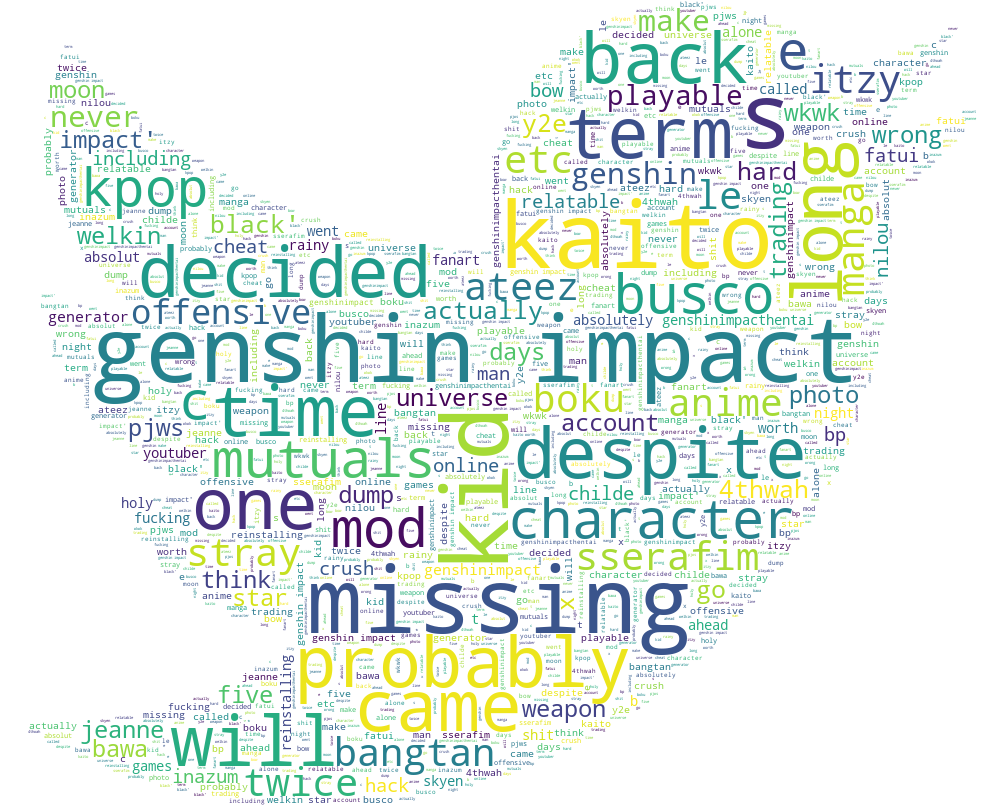
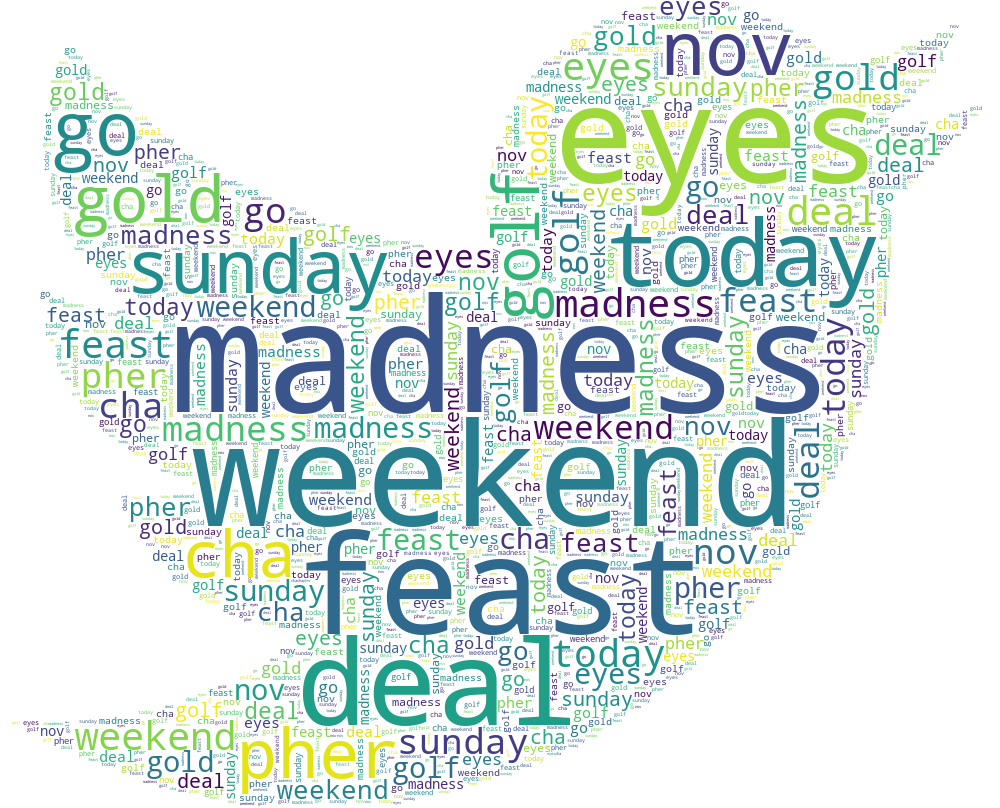
update ui

diff --git a/templates/index.html b/templates/index.html
@@ -5,94 +5,105 @@
     <title>Wordcloud Twitter</title>
     <meta charset="utf-8">
     <meta name="viewport" content="width=device-width, initial-scale=1">
-    <link rel="stylesheet" href="style.css">
-    <link rel="stylesheet" href="https://maxcdn.bootstrapcdn.com/bootstrap/3.4.1/css/bootstrap.min.css">
-    <link rel="stylesheet" href="https://cdn.jsdelivr.net/npm/bootstrap@4.6.1/dist/css/bootstrap.min.css">
     <script type="text/javascript" src="/eel.js"></script>
     <script type="text/javascript" src="main.js"></script>
-    <!-- <script type="text/javascript">
-        var myVar="hello";
-        function exampleFunction() { alert('You triggered an alert!');}
-        function compute() {
-            //var data = document.getElementById("data").value
-            //eel.demo(data)(setValue) // call the demo function which we have created in the main.py file
-            console.log("js hey");
-            alert('You triggered an alert!');
-            var keyword="apec";
-            var noOfTweet=10;
-            var select=1;    
-            eel.input(keyword, noOfTweet, select);
-            alert('You triggered an alert!2');
-        }
-        eel.expose(say_hello_js);               // Expose this function to Python
-        function say_hello_js(x) {
-            console.log("Hello from " + x);
-        }
-        
-        say_hello_js("Javascript World!");
-        eel.say_hello_py("Javascript World!");  // Call a Python function
-    </script> -->
-    <script src="https://ajax.googleapis.com/ajax/libs/jquery/3.6.0/jquery.min.js"></script>
-    <script src="https://maxcdn.bootstrapcdn.com/bootstrap/3.4.1/js/bootstrap.min.js"></script>
-    <script src="https://cdn.jsdelivr.net/npm/jquery@3.6.0/dist/jquery.slim.min.js"></script>
-    <script src="https://cdn.jsdelivr.net/npm/popper.js@1.16.1/dist/umd/popper.min.js"></script>
-    <script src="https://cdn.jsdelivr.net/npm/bootstrap@4.6.1/dist/js/bootstrap.bundle.min.js"></script>
+    <script src="https://cdn.tailwindcss.com"></script>
 </head>
 
-<body style="background: rgb(235, 234, 234);">
-    
-    <nav class="navbar navbar-inverse">
-        <div class="container-fluid">
-            <div class="navbar-header">
-                <a class="navbar-brand" href="#">Wordcloud Twitter</a>
-            </div>
+<body>
+    <nav class="bg-gray-50 border-gray-200 px-2 sm:px-4 py-2.5 dark:bg-gray-900">
+        <div class="container flex flex-wrap items-center justify-between mx-auto">
+            <a class="flex items-center">
+                <img src="https://upload.wikimedia.org/wikipedia/commons/thumb/4/4f/Twitter-logo.svg/800px-Twitter-logo.svg.png" class="h-6 mr-3 sm:h-9" alt="Twitter Logo" />
+                <span class="self-center text-xl font-semibold whitespace-nowrap dark:text-white">Wordcloud Twitter</span>
+            </a>
         </div>
     </nav>
-    <div class="container">
-        <h3 id="a1">Inverted Navbar</h3>
-        <p>An inverted navbar is black instead of gray.</p>
-        <button class="btn btn btn-primary" type="button" onclick="compute()">lll</button>
-        <input type = "button" onclick = "compute()" value = "Click Me">
-            <div class="input-group">
-                <input type="text" class="form-control" placeholder="Search" name="search">
-                <div class="input-group-btn">
-                    <button class="btn btn-default" type="button" onclick="compute()"><i class="glyphicon glyphicon-search"></i></button>
-                </div>
-
-
-            </div><br><img src="fff.png" class="mx-auto d-block" alt="Cinque Terre" width="304" height="236">
-        <br>
-        <div class="container">
-            
-            <div class="card-group">
-            <div class="card" style="width:200px">
-                <img class="mx-auto d-block" src="like.png" alt="Card image" style="width:80%">
-                <div class="card-body">
-                    <h4 class="card-title">John Doe</h4>
-                    <p class="card-text">Some example text some example text. John Doe is an architect and engineer</p>
-                    <a href="#" class="btn btn-primary">See Profile</a>
-                </div>
+    
+    <form class="flex items-center justify-center mt-5 mx-3 md:mt-8">   
+        <label for="simple-search" class="sr-only">Search</label>
+        <div class="relative w-full md:w-1/3">
+            <div class="absolute inset-y-0 left-0 flex items-center pl-3 pointer-events-none">
+                <svg aria-hidden="true" class="w-5 h-5 text-gray-500 dark:text-gray-400" fill="currentColor" viewBox="0 0 20 20" xmlns="http://www.w3.org/2000/svg"><path fill-rule="evenodd" d="M8 4a4 4 0 100 8 4 4 0 000-8zM2 8a6 6 0 1110.89 3.476l4.817 4.817a1 1 0 01-1.414 1.414l-4.816-4.816A6 6 0 012 8z" clip-rule="evenodd"></path></svg>
             </div>
-            <div class="card" style="width:200px">
-                <img class="mx-auto d-block" src="confused.png" alt="Card image" style="width:80%">
-                <div class="card-body">
-                    <h4 class="card-title">John Doe</h4>
-                    <p class="card-text">Some example text some example text. John Doe is an architect and engineer</p>
-                    <a href="#" class="btn btn-primary">See Profile</a>
-                </div>
-            </div>
-            <div class="card" style="width:200px">
-                <img class="mx-auto d-block" src="angry.png" alt="Card image" style="width:80%">
-                <div class="card-body">
-                    <h4 class="card-title">John Doe</h4>
-                    <p class="card-text">Some example text some example text. John Doe is an architect and engineer</p>
-                    <a href="#" class="btn btn-primary">See Profile</a>
-                </div>
-            </div>
-            </div>
-            
+            <input type="text" id="simple-search" class="bg-gray-50 border border-gray-300 text-gray-900 text-sm rounded-lg focus:ring-blue-500 focus:border-blue-500 block w-full pl-10 p-2.5  dark:bg-gray-700 dark:border-gray-600 dark:placeholder-gray-400 dark:text-white dark:focus:ring-blue-500 dark:focus:border-blue-500" placeholder="Search keyword or hashtag" required>
+        </div>
+        <button type="button" onclick="compute(4)" class="p-2.5 ml-2 text-sm font-medium text-white bg-blue-700 rounded-lg border border-blue-700 hover:bg-blue-800 focus:ring-4 focus:outline-none focus:ring-blue-300 dark:bg-blue-600 dark:hover:bg-blue-700 dark:focus:ring-blue-800">
+            <svg class="w-5 h-5" fill="none" stroke="currentColor" viewBox="0 0 24 24" xmlns="http://www.w3.org/2000/svg"><path stroke-linecap="round" stroke-linejoin="round" stroke-width="2" d="M21 21l-6-6m2-5a7 7 0 11-14 0 7 7 0 0114 0z"></path></svg>
+            <span class="sr-only">Search</span>
+        </button>
+    </form>
+    <img src="../result/wc-all.png" class="py-8 md:mt-10 mx-auto w-full md:w-2/5">
+    <div class="grid grid-rows-3 grid-flow-col gap-10 h-72 p-8 my-12 items-center justify-center">
+        <div class="row-start-1 row-end-3 ">
+            <button type="button" onclick="computeButton(2)" class="w-64 max-w-sm p-4 bg-white border rounded-lg shadow-md sm:p-8 dark:bg-gray-800 dark:border-gray-700 transition ease-in-out delay-150 hover:-translate-y-1 hover:scale-110 hover:bg-gray-50 duration-300">
+                <h5 class="mb-4 text-xl font-medium text-gray-500 dark:text-gray-400">negative sentiment</h5>
+                <img src="https://cdn-icons-png.flaticon.com/512/743/743418.png" class="w-16 inline-flex mx-auto"/>
+            </button>
+        </div>
+        <div class="row-start-2 row-end-4">
+            <button type="button" onclick="computeButton(3)" class="w-64 max-w-sm p-4 bg-white border rounded-lg shadow-md sm:p-8 dark:bg-gray-800 dark:border-gray-700 transition ease-in-out delay-150 hover:-translate-y-1 hover:scale-110 hover:bg-gray-50 duration-300">
+                <h5 class="mb-4 text-xl font-medium text-gray-500 dark:text-gray-400">neutral sentiment</h5>
+                <img src="https://cdn-icons-png.flaticon.com/512/1933/1933511.png" class="w-16 inline-flex mx-auto"/>
+            </button>
+        </div>
+        <div class="row-start-1 row-end-3 ">
+            <button type="button" onclick="computeButton(1)" class="w-64 max-w-sm p-4 bg-white border rounded-lg shadow-md sm:p-8 dark:bg-gray-800 dark:border-gray-700 transition ease-in-out delay-150 hover:-translate-y-1 hover:scale-110 hover:bg-gray-50 duration-300">
+                <h5 class="mb-4 text-xl font-medium text-gray-500 dark:text-gray-400">positive sentiment</h5>
+                <img src="https://cdn-icons-png.flaticon.com/512/3106/3106048.png" class="w-16 inline-flex mx-auto"/>
+            </button>
+        </div>
     </div>
-
+    <!-- Main modal -->
+    <div id="defaultModal" tabindex="-1" aria-hidden="true" class="hidden overflow-y-auto overflow-x-hidden fixed top-0 right-0 left-0 z-50 p-4 w-full md:inset-0 h-modal md:h-full">
+        <div class="relative w-full max-w-2xl h-full md:h-auto">
+            <!-- Modal content -->
+            <div class="relative bg-white rounded-lg shadow dark:bg-gray-700">
+                <!-- Modal header -->
+                <div class="flex justify-between items-start p-4 rounded-t border-b dark:border-gray-600">
+                    <h3 class="text-xl font-semibold text-gray-900 dark:text-white">
+                        Terms of Service
+                    </h3>
+                    <button type="button" class="text-gray-400 bg-transparent hover:bg-gray-200 hover:text-gray-900 rounded-lg text-sm p-1.5 ml-auto inline-flex items-center dark:hover:bg-gray-600 dark:hover:text-white" data-modal-toggle="defaultModal">
+                        <svg aria-hidden="true" class="w-5 h-5" fill="currentColor" viewBox="0 0 20 20" xmlns="http://www.w3.org/2000/svg"><path fill-rule="evenodd" d="M4.293 4.293a1 1 0 011.414 0L10 8.586l4.293-4.293a1 1 0 111.414 1.414L11.414 10l4.293 4.293a1 1 0 01-1.414 1.414L10 11.414l-4.293 4.293a1 1 0 01-1.414-1.414L8.586 10 4.293 5.707a1 1 0 010-1.414z" clip-rule="evenodd"></path></svg>
+                        <span class="sr-only">Close modal</span>
+                    </button>
+                </div>
+                <!-- Modal body -->
+                <div class="p-6 space-y-6">
+                    <p class="text-base leading-relaxed text-gray-500 dark:text-gray-400">
+                    63050095 Kanticha Trisri
+                    63050096 Kanya Saenkham
+                    63050146 Thanyasiri Srisoongnern
+                    63050147 Tharita Watanapa
+                    63050166 Pilada Prasan
+                    </p>
+                </div>
+            </div>
+        </div>
+    </div>
 </body>
+
+<footer class="p-4 bg-white rounded-lg shadow md:flex md:items-center md:justify-between md:p-6 dark:bg-gray-800">
+    <span class="text-sm text-gray-500 sm:text-center dark:text-gray-400">© 2022 <a href="https://github.com/cseleven" class="hover:underline">Eleven</a>. Big Data, Computer Science, KMITL.
+    </span>
+    <ul class="flex flex-wrap items-center mt-3 text-sm text-gray-500 dark:text-gray-400 sm:mt-0">
+        <li>
+            <a href="https://classroom.google.com/c/NTM3Nzc4MzY0NjU3/a/NTAzMjY4NTE3OTYx/details" class="mr-4 hover:underline md:mr-6 ">About</a>
+        </li>
+        <li>
+            <a href="https://github.com/cseleven/WordCloud.git" class="mr-4 hover:underline md:mr-6">GitHub</a>
+        </li>
+        <li>
+            <a href="https://github.com/cseleven" class="mr-4 hover:underline md:mr-6">Contact</a>
+        </li>
+        <li>
+            <!-- Modal toggle -->
+            <button class="block text-white bg-blue-700 hover:bg-blue-800 focus:ring-4 focus:outline-none focus:ring-blue-300 font-medium rounded-lg text-sm px-5 py-2.5 text-center dark:bg-blue-600 dark:hover:bg-blue-700 dark:focus:ring-blue-800" type="button" data-modal-toggle="defaultModal">
+                developer
+            </button>
+        </li>
+    </ul>
+</footer>
 
 </html>

diff --git a/templates/main.js b/templates/main.js
@@ -1,13 +1,16 @@
-function compute() {
-    //var data = document.getElementById("data").value
-    //eel.demo(data)(setValue) // call the demo function which we have created in the main.py file
-    console.log("Hello from ");
-    var keyword="apec"
-    var noOfTweet=10
-    var select=1
-    eel.input(keyword, noOfTweet, select)
+let keyword = "blackpink";
+
+function compute(select) {
+    keyword = document.getElementById("simple-search").value;
+    var noOfTweet=10;
+    eel.input(keyword, noOfTweet, select);
+}
+
+function computeButton(select) {
+    var noOfTweet=10;
+    eel.input(keyword, noOfTweet, select);
 }
 
 function setValue(res) {
-    document.getElementById("abc").src = res
+    document.getElementById("abc").src = res;
 }

diff --git a/main.py b/main.py
@@ -22,9 +22,8 @@ def say_hello_py(x):
     print('Hello from %s' % x)
 
 say_hello_py('Python World!')
-eel.say_hello_js('Python World!')   # Call a Javascript function
 
 print("Run Server Successful")
 # 1000 is width of window and 600 is the height
 #mode='firefox-app'
-eel.start('index.html', size=(1000, 600))
+eel.start('index.html', mode='chrome-app', size=(1000, 600))
